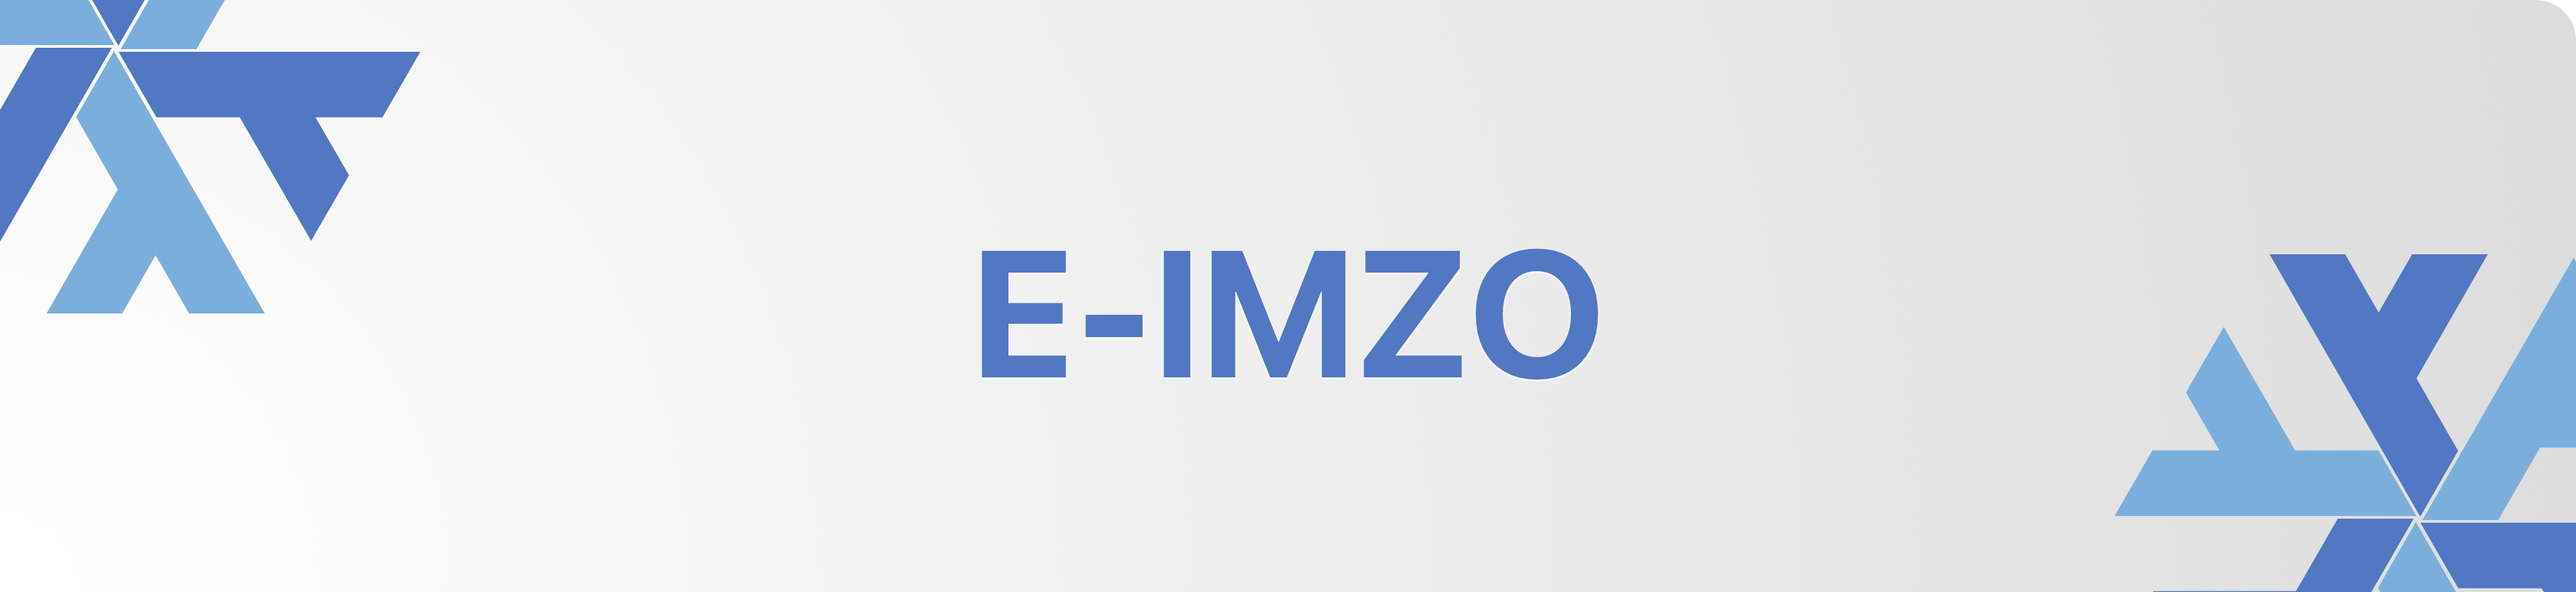
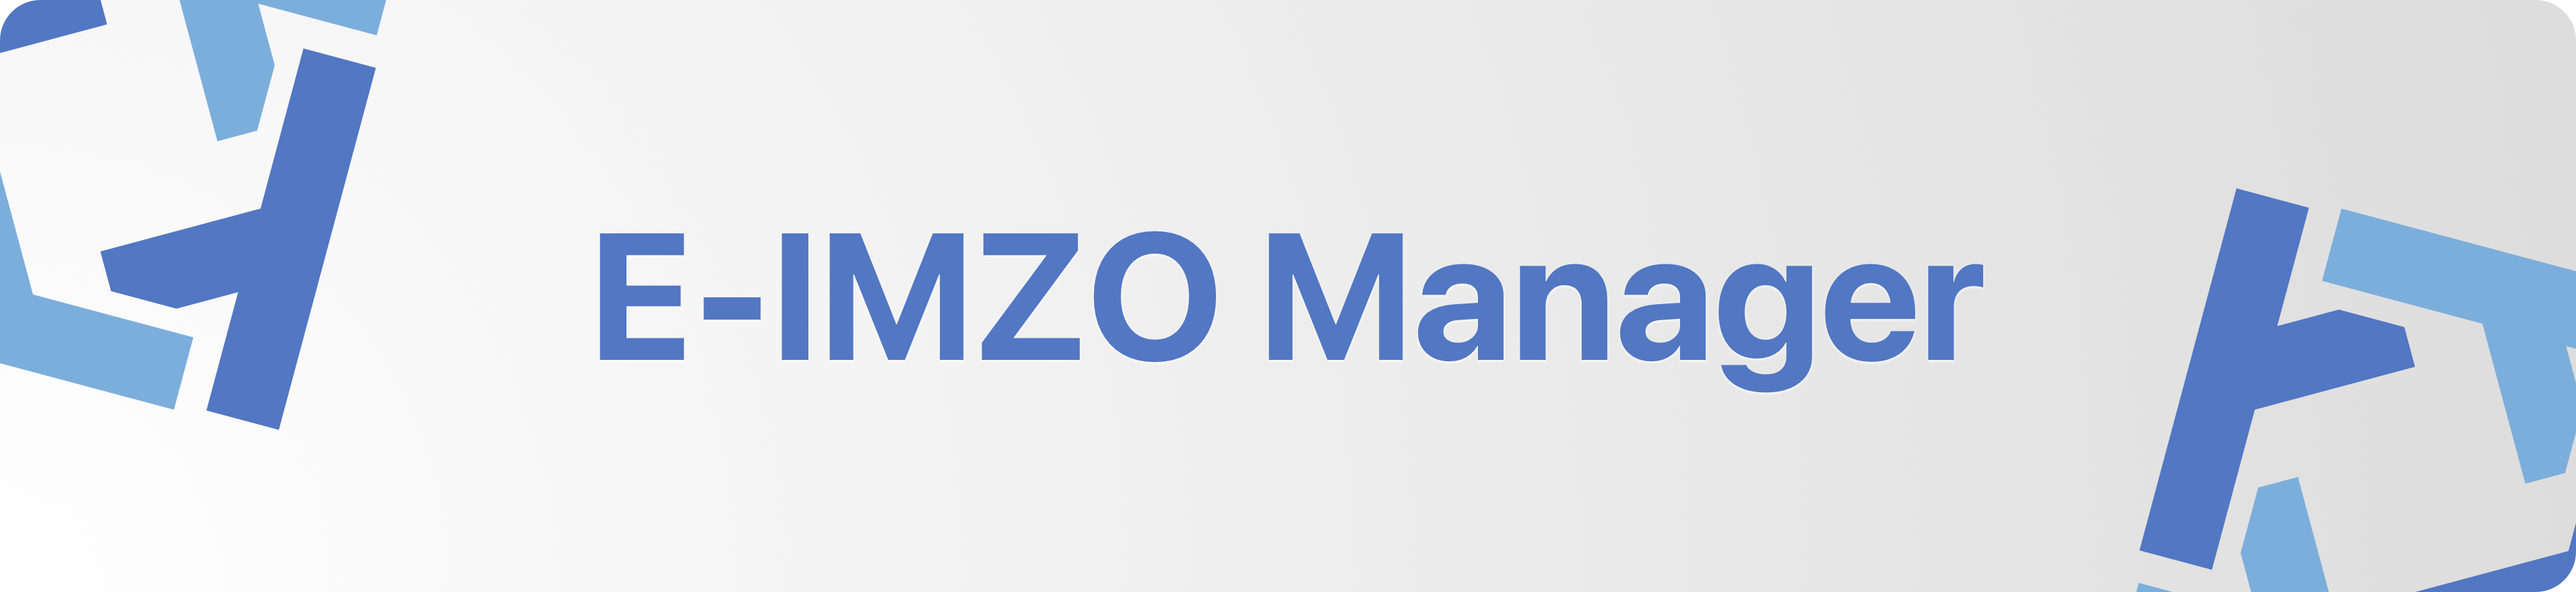
chore: re-structurizing files for readability

Changed region(s): [[0.2178, 0.3682, 0.778, 0.675], [0.8091, 0.3068, 1.0, 1.0], [0.0, 0.0, 0.1867, 0.7364]]

diff --git a/README.md b/README.md
@@ -1,40 +1,59 @@
+<p align="center">
+    <img src=".github/assets/header.png" alt="Xinux'es {E-IMZO Manager}">
+</p>
 
-<div align="center">
-  <h1>E-IMZO-Manager</h1>
-  <h3><a href="https://e-imzo.soliq.uz/">E-IMZO</a> for uzbek state web key signing.</h3>
+<p align="center">
+    <h3 align="center">E-IMZO Key Management Application written on Rust/GTK.</h3>
+</p>
 
+<p align="center">
+    <img align="center" src="https://img.shields.io/github/languages/top/xinux-org/e-imzo?style=flat&logo=nixos&logoColor=ffffff&labelColor=242424&color=242424" alt="Top Used Language">
+    <a href="https://github.com/xinux-org/e-imzo/actions/workflows/test.yml"><img align="center" src="https://img.shields.io/github/actions/workflow/status/uzinfocom-org/instances/test.yml?style=flat&logo=github&logoColor=ffffff&labelColor=242424&color=242424" alt="Test CI"></a>
+</p>
 
-  <img src="./data/resources/screenshots/select_mode.png" alt="drawing" width="450"/>
-</div>
+## About
 
-## Installation
-| Platform   | Command                                 |
-|------------|-----------------------------------------|
-| Coming soon to Flathub    | <a href="https://flathub.org/apps/details/uz.xinux.EIMZOManager"><img src="https://flathub.org/assets/badges/flathub-badge-en.png" width="150"/></a> |
+Since NixOS'es nixpkgs has e-imzo service available under the hood, there's no helper or managemental application for e-imzo's key management. We created that very key manager that will help users to easily add, remove and see more details about their key.
 
 ## Development
+
+This application has Linux-only dependencies that would require additional flags to run on MacOS with nix package manager.
+
 ```
-# do not run it inside nix-shell
+# Do not run it inside nix-shell!
 nix run github:xinux-org/e-imzo
 
+# Open interactive GTK Debugger
 export GTK_DEBUG=interactive
 
+# Initiate meson environment
 meson setup build
 meson compile -C build
 ./build/src/E-IMZO-Manager
 
-# generate translation words from /po/POTFILES.in
+# Generate translation words from /po/POTFILES.in
 xgettext --directory=.. --files-from=POTFILES.in --from-code=UTF-8 -kgettext -o translations.pot
 ```
 
-## Deploy
-To deploy the app, head to [Flatpak.md](Flatpak.md)
+## Building
 
+Building this app requires Linux hosts only. If you are going to only try or use this application, simply run:
+
+```bash
+# Call the flake via nix
+nix run github:xinux-org/e-imzo
+```
+
+However, if you were planning to tweak this application or hack, follow the [development](#development) section of this document for more, it includes build steps for development environment.
+
+## Installation
+
+_WIP_
 
 ## License
 
-This project is licensed under the CC-BY-4.0 license due to stricted use of [Soliq.uz](https://soliq.uz)'es policy - see the [LICENSE](LICENSE) file for details.
+This project is licensed under the CC-BY-4.0 for text documents at [archive](.github/archive) license due to stricted use of [Soliq.uz](https://soliq.uz)'es policy and AGPL for the manager - see the [LICENSE-CCBY](LICENSE-CCBY) and [LICENSE-AGPL](LICENSE-AGPL) files for details.
 
 <p align="center">
-    <img src="./.github/assets/footer.png" alt="Xinux'es {E-IMZO}">
+    <img src="./.github/assets/footer.png" alt="Xinux'es {E-IMZO Manager}">
 </p>
